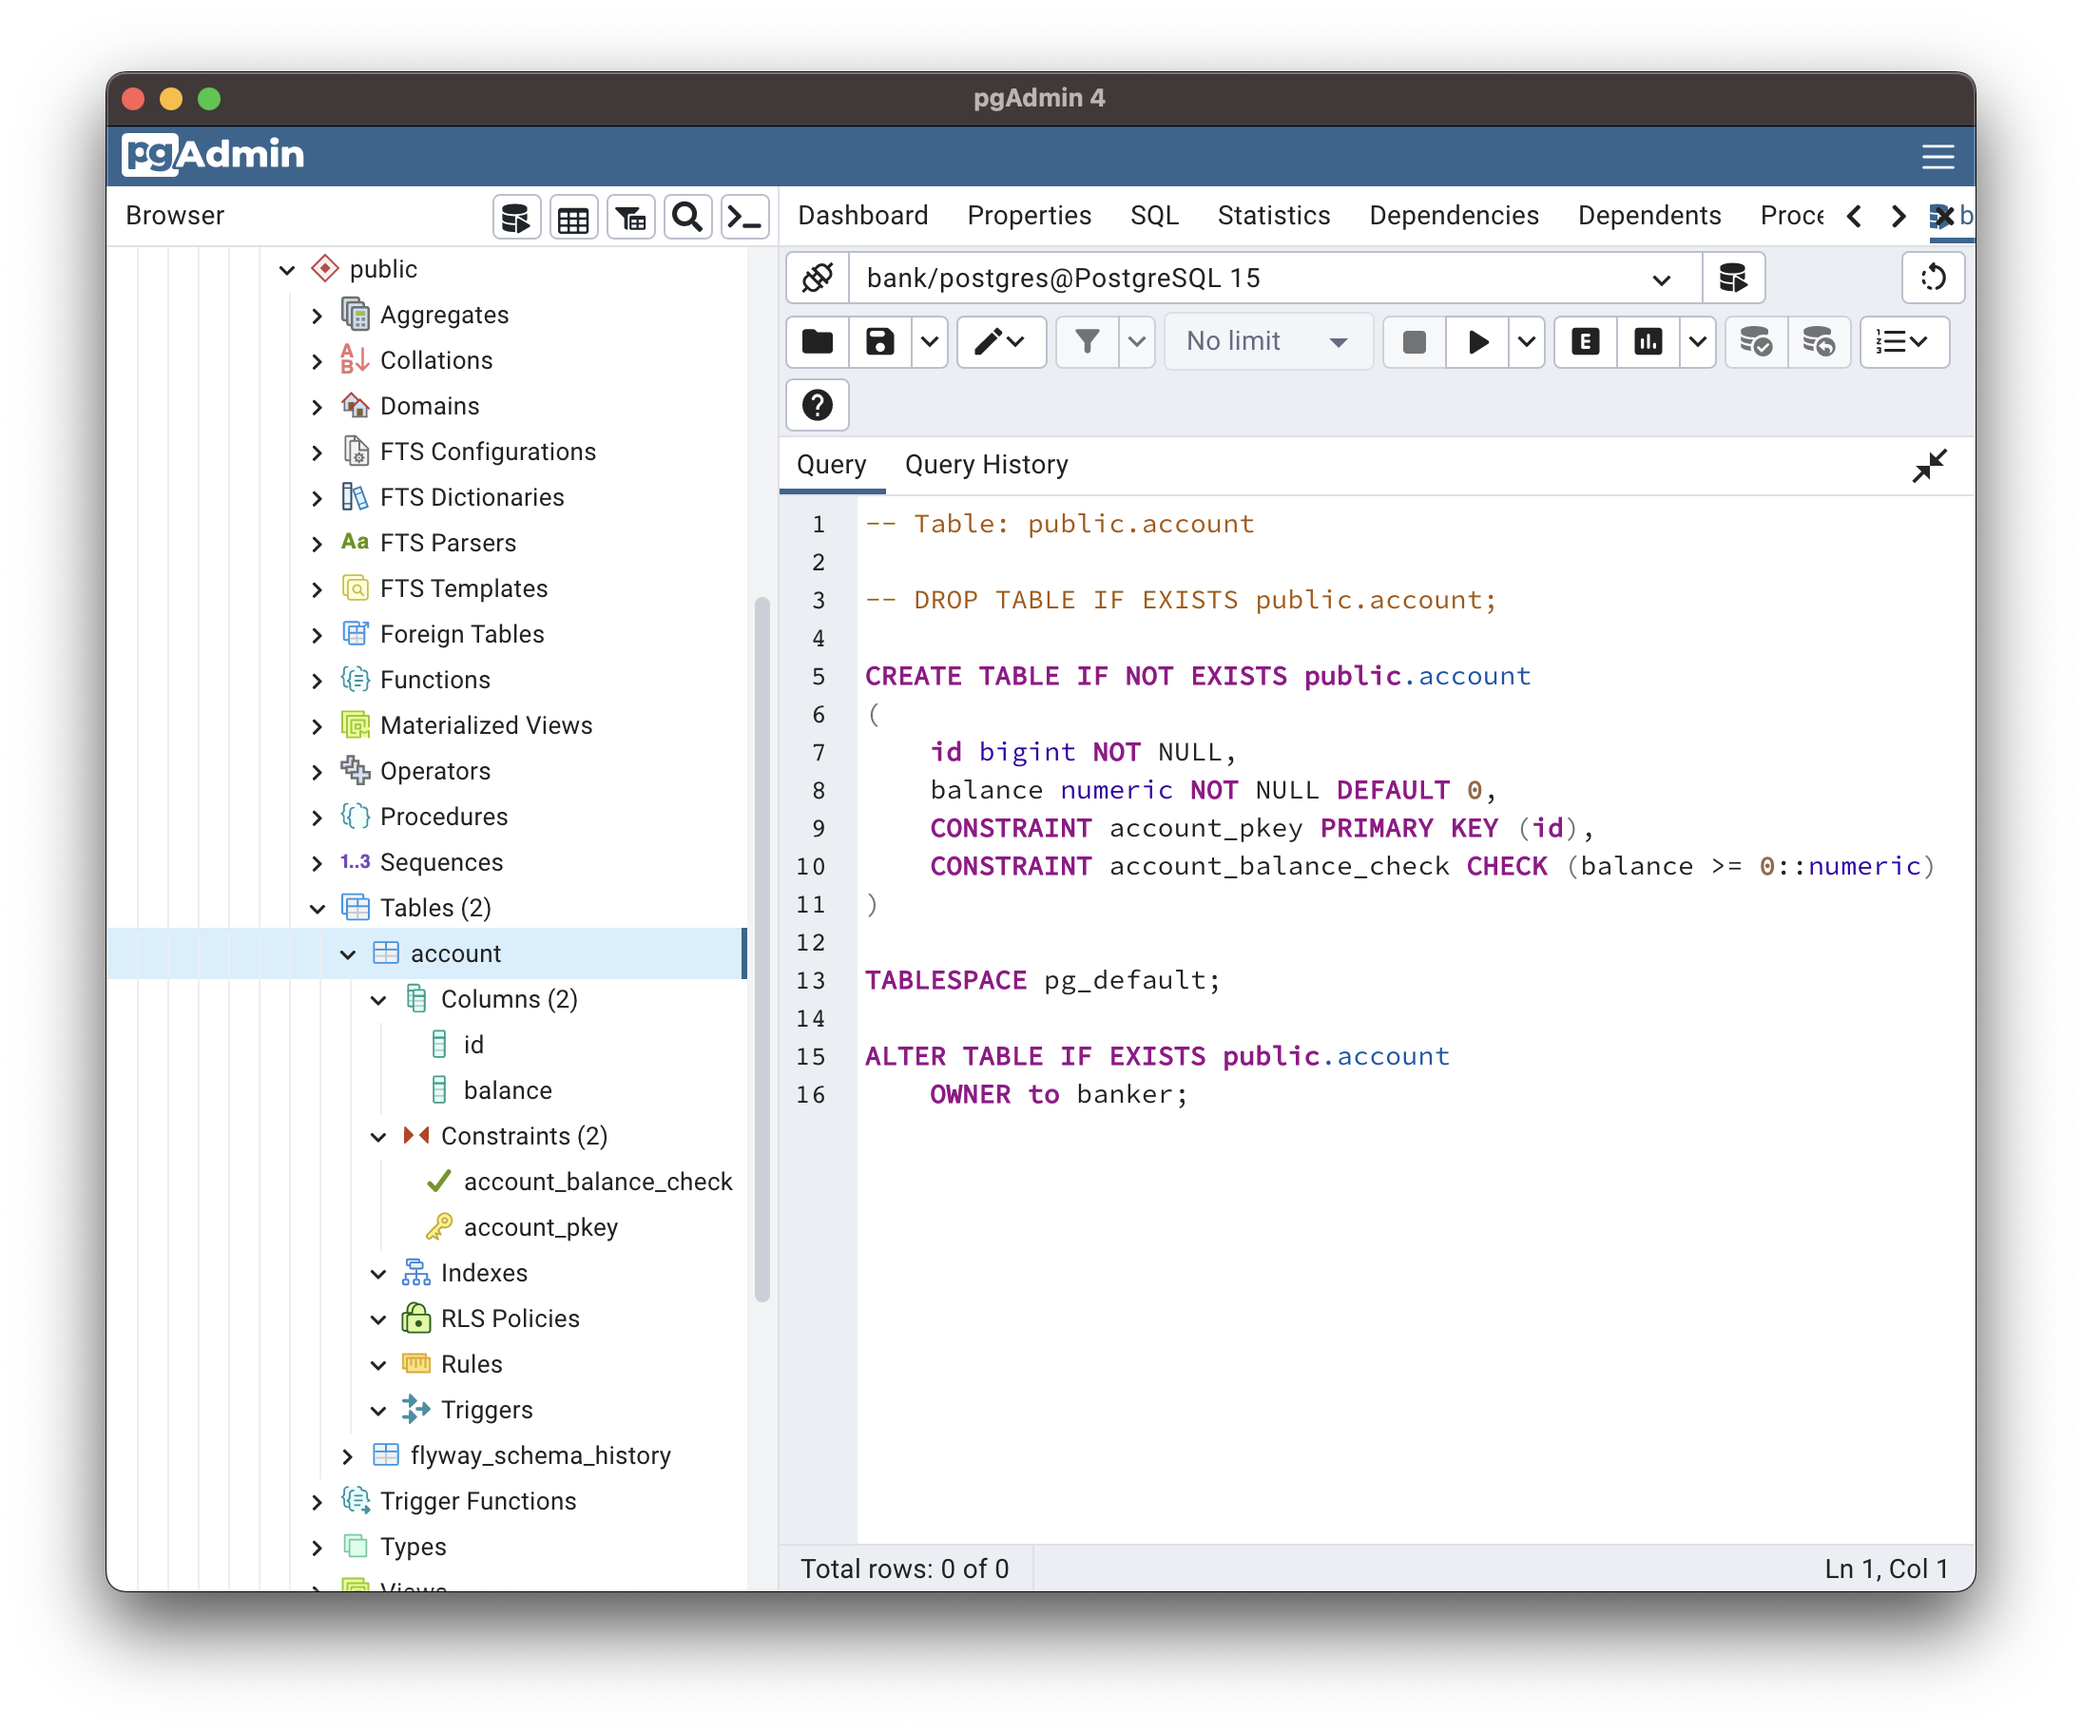
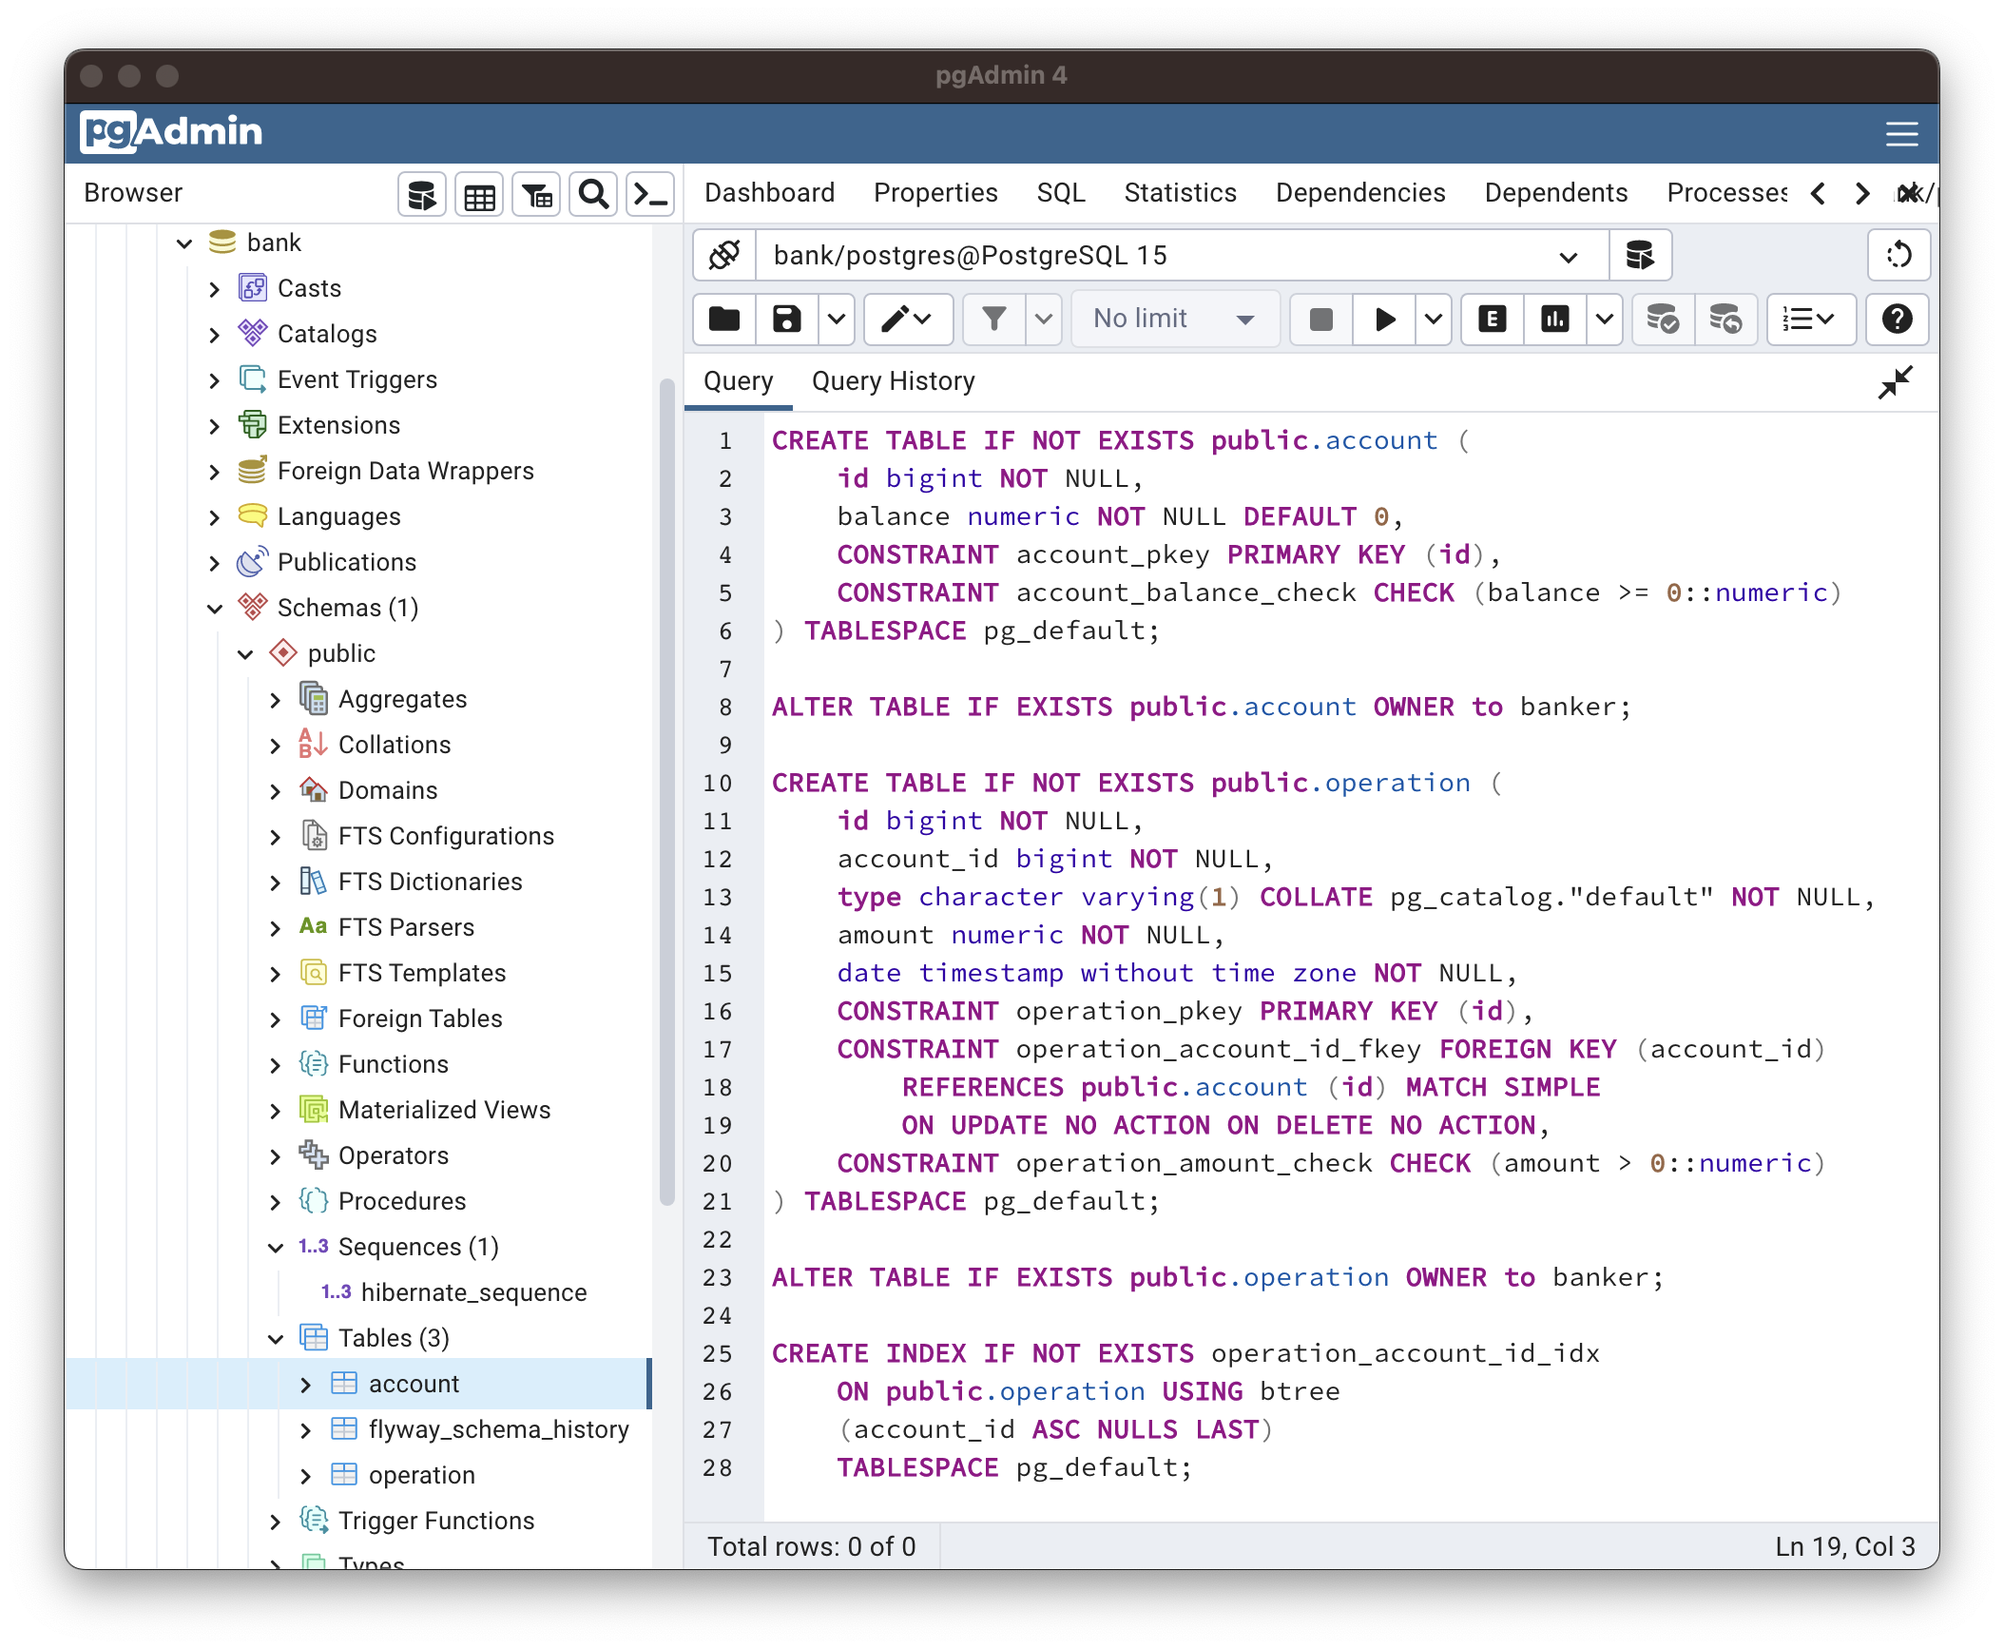
added a script for one more test user with an operations history, changed the version of the application to 1.1.1-SNAPSHOT, and updated README.md

diff --git a/README.md b/README.md
@@ -4,6 +4,7 @@ A demo Spring Boot application which allows:
 - to get an account balance,
 - to deposit money to an account,
 - to withdraw money from an account,
+- to get an operations history for an account, 
 
 via REST API.
 
@@ -95,6 +96,44 @@ following JSON:
     }
 ```
 
+### /getOperationList/{userId}
+
+If a user with such `userId` exists, returns `200 OK` and a history 
+of user operations in the following JSON structure:
+```    
+    [
+        {
+            "date": "1970-01-01T08:00:00.000+00:00",
+            "type": "deposit",
+            "amount": 1000.00
+        },
+        ...
+    ]
+```
+If there is no user with such `userId`, returns `404 Not Found` and the following
+JSON:
+```
+    {
+        "result": 0,
+        "message": "user not found"
+    }
+```
+if there are no operations for the user with such `userId`, returns `404 Not Found` 
+with a similar JSON:
+```
+    {
+        "result": 0,
+        "message": "operations not found"
+    }
+```
+User's operation history may be filtered with request parameters `dateFrom` 
+and `dateTo` of `yyyy-MM-dd` format:
+```
+    /getOperationList/1001?dateFrom=1970-01-01&dateTo=1970-12-31
+```
+Operations, dates of which are equal to `dateFrom`, will be included. And operations 
+dated `dateTo` will be excluded. Either `dateFrom` or `dateTo` may be omitted.  
+
 ## Other Endpoints
 
 ### /actuator
@@ -115,8 +154,8 @@ A web-version is also available at `/swagger-ui/`.
 ## Configuration
 
 An application listens on port 8080, contains Flyway scripts to create 
-database structure and two test users with ids 1001 and 1002. Default 
-database connection parameters:
+database structure and three test users with ids 1001, 1002, and 1003. 
+Default database connection parameters:
 
 | Parameter | Value               |
 |-----------|---------------------|
@@ -130,9 +169,9 @@ All these parameters can be changed by adding `spring.datasource.url`,
 `spring.datasource.username` and `spring.datasource.password` to file 
 `db.properties` in the working directory.
 
-Database has to contain a sequence `HIBERNATE_SEQUENCE` and a table
-`ACCOUNT` of the following structure:
+Database has to contain a sequence `HIBERNATE_SEQUENCE` and tables
+`ACCOUNT` and `OPERATION` (see a database dump `dump.sql` in the 
+project directory):
 
 ![Database structure](db_structure.png)
 
-Or you can use a database dump `dump.sql` to create a database.
